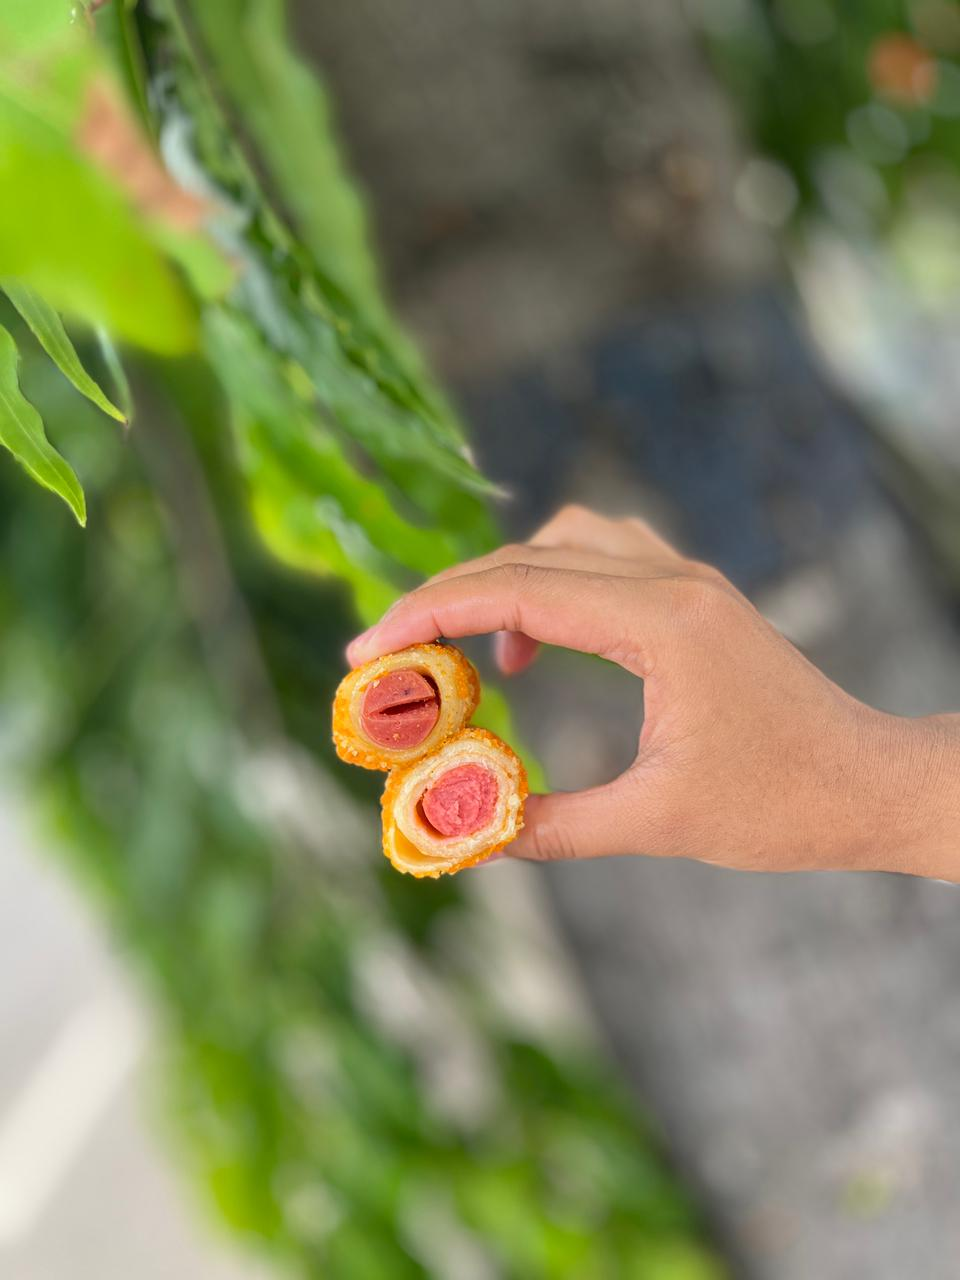
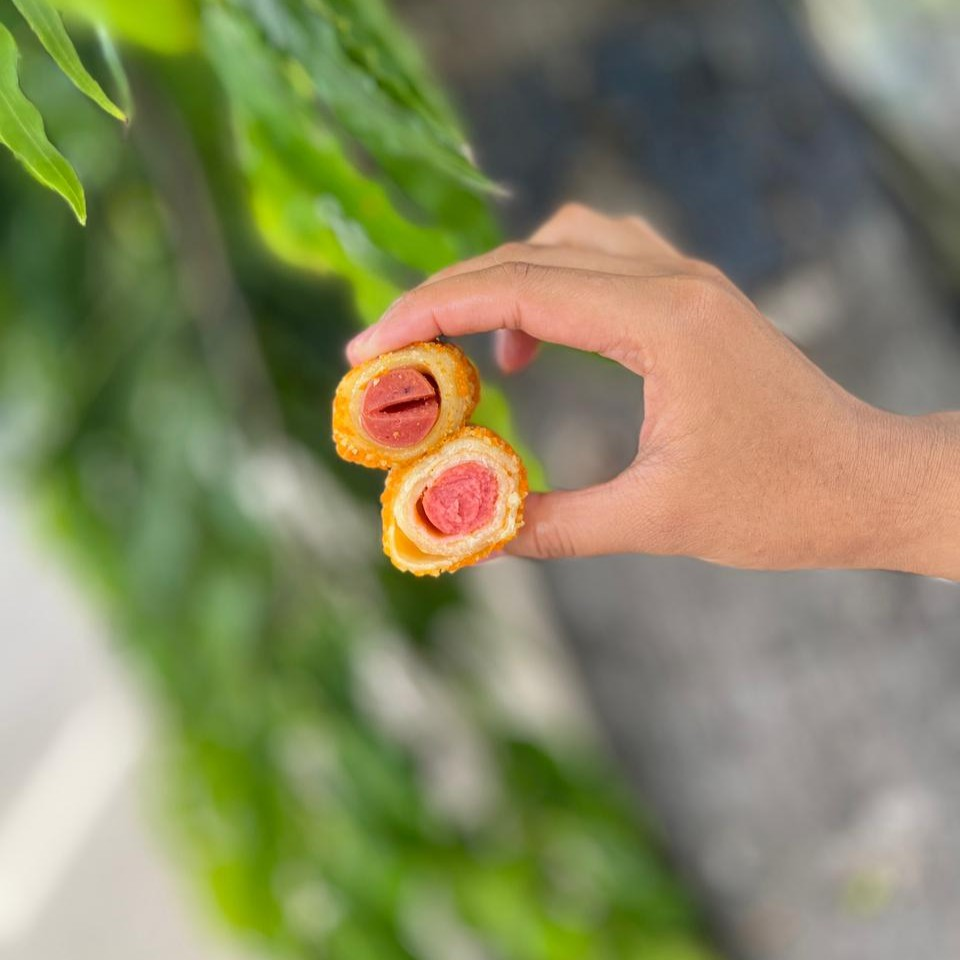
Add files via upload

diff --git a/js/app.js b/js/app.js
@@ -5,12 +5,20 @@
 
   var PRODUCTS = [
     { id: "sosis", name: "Risol sosis", priceLabel: "3k", priceIdr: 3000, image: "images/RISOL-SOSIS.jpeg" },
+    { id: "mayo", name: "Risol Mayo", priceLabel: "3k", priceIdr: 3000, image: "images/RISOL-MAYO.jpeg" },
     { id: "ayam", name: "Risol ayam", priceLabel: "4k", priceIdr: 4000, image: "images/RISOL-AYAM.jpeg" },
     { id: "dimsum", name: "Risol dimsum", priceLabel: "4k", priceIdr: 4000, image: "images/RISOL-DIMSUM.jpeg" },
     { id: "chocrella", name: "Risol chocrella", priceLabel: "4k", priceIdr: 4000, image: "images/RISOL-COCHORELLA.jpeg" },
     { id: "matcha", name: "Risol matcha", priceLabel: "4k", priceIdr: 4000, image: "images/RISOL-MATCHA.jpeg" },
     { id: "pizzarella", name: "Risol pizzarella", priceLabel: "4k", priceIdr: 4000, image: "images/RISOL-PIZZARELLA.jpeg" },
     { id: "dimsum-mentai", name: "Risol Dimsum Mentai", priceLabel: "5k", priceIdr: 5000, image: "images/RISOL-DIMSUM-MENTAI.jpeg" },
+    {
+      id: "dimsum-mentai-combo-hemat",
+      name: "Risol Dimsum Mentai Combo Hemat isi 3",
+      priceLabel: "14k",
+      priceIdr: 14000,
+      image: "images/RISOL-DIMSUM-MENTAI-COMBO-HEMAT.jpeg",
+    },
     { id: "paket-hemat", name: "Risol Paket Hemat", priceLabel: "30k", priceIdr: 30000, image: "images/RISOL-PAKET-HEMAT.jpeg" },
   ];
 